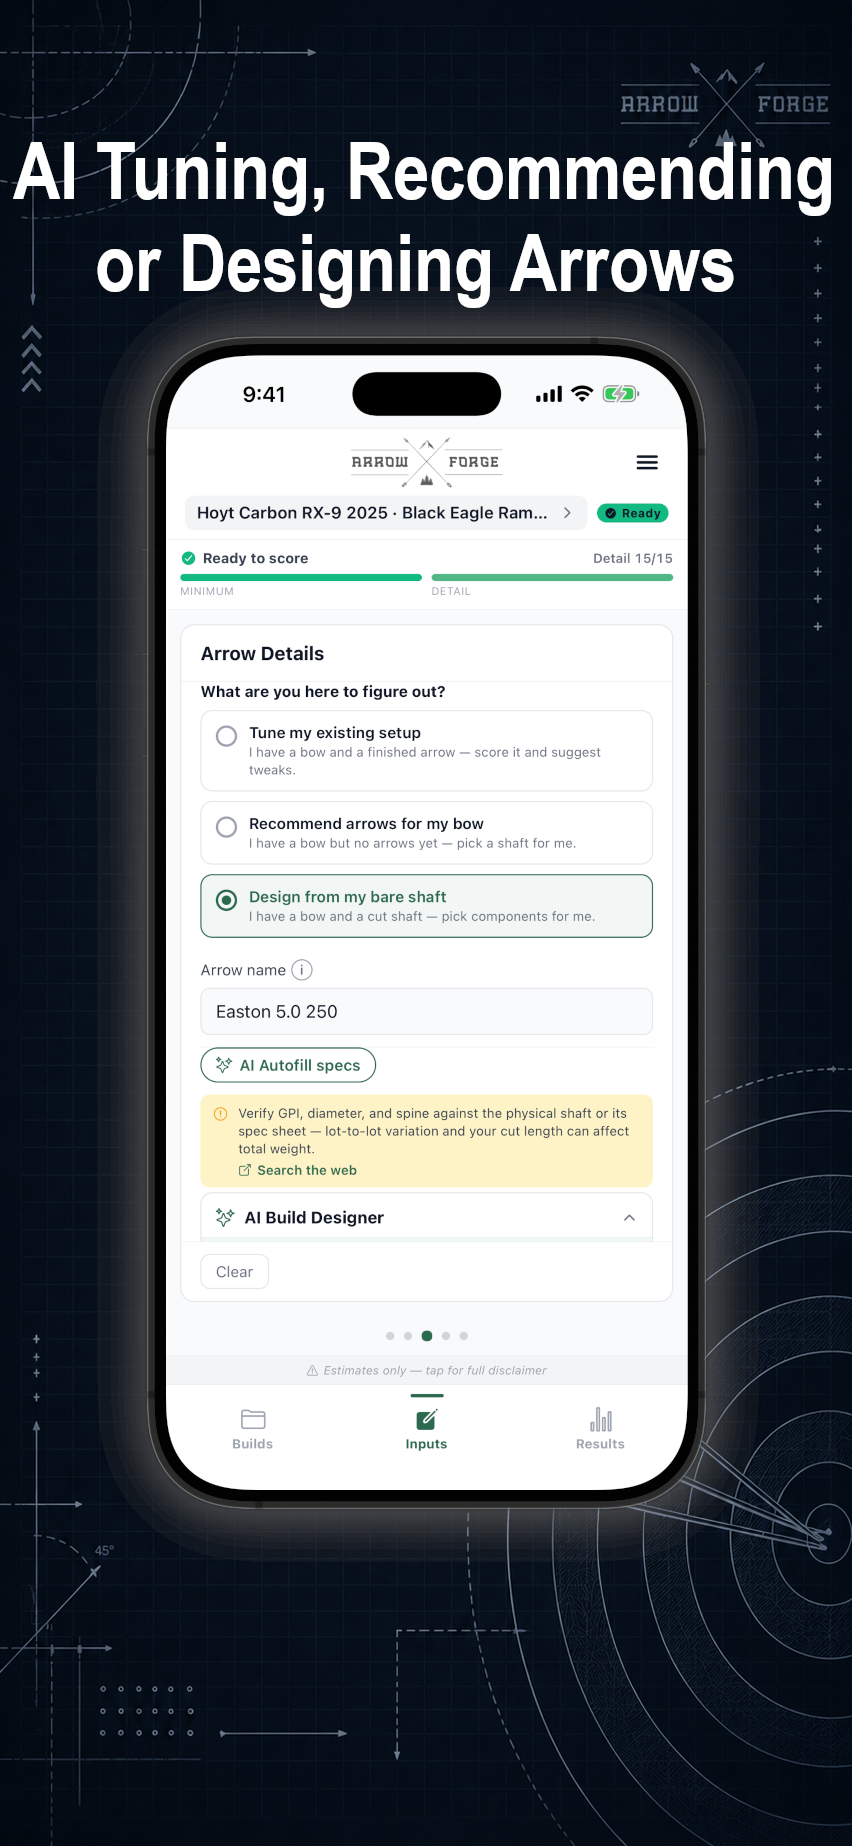
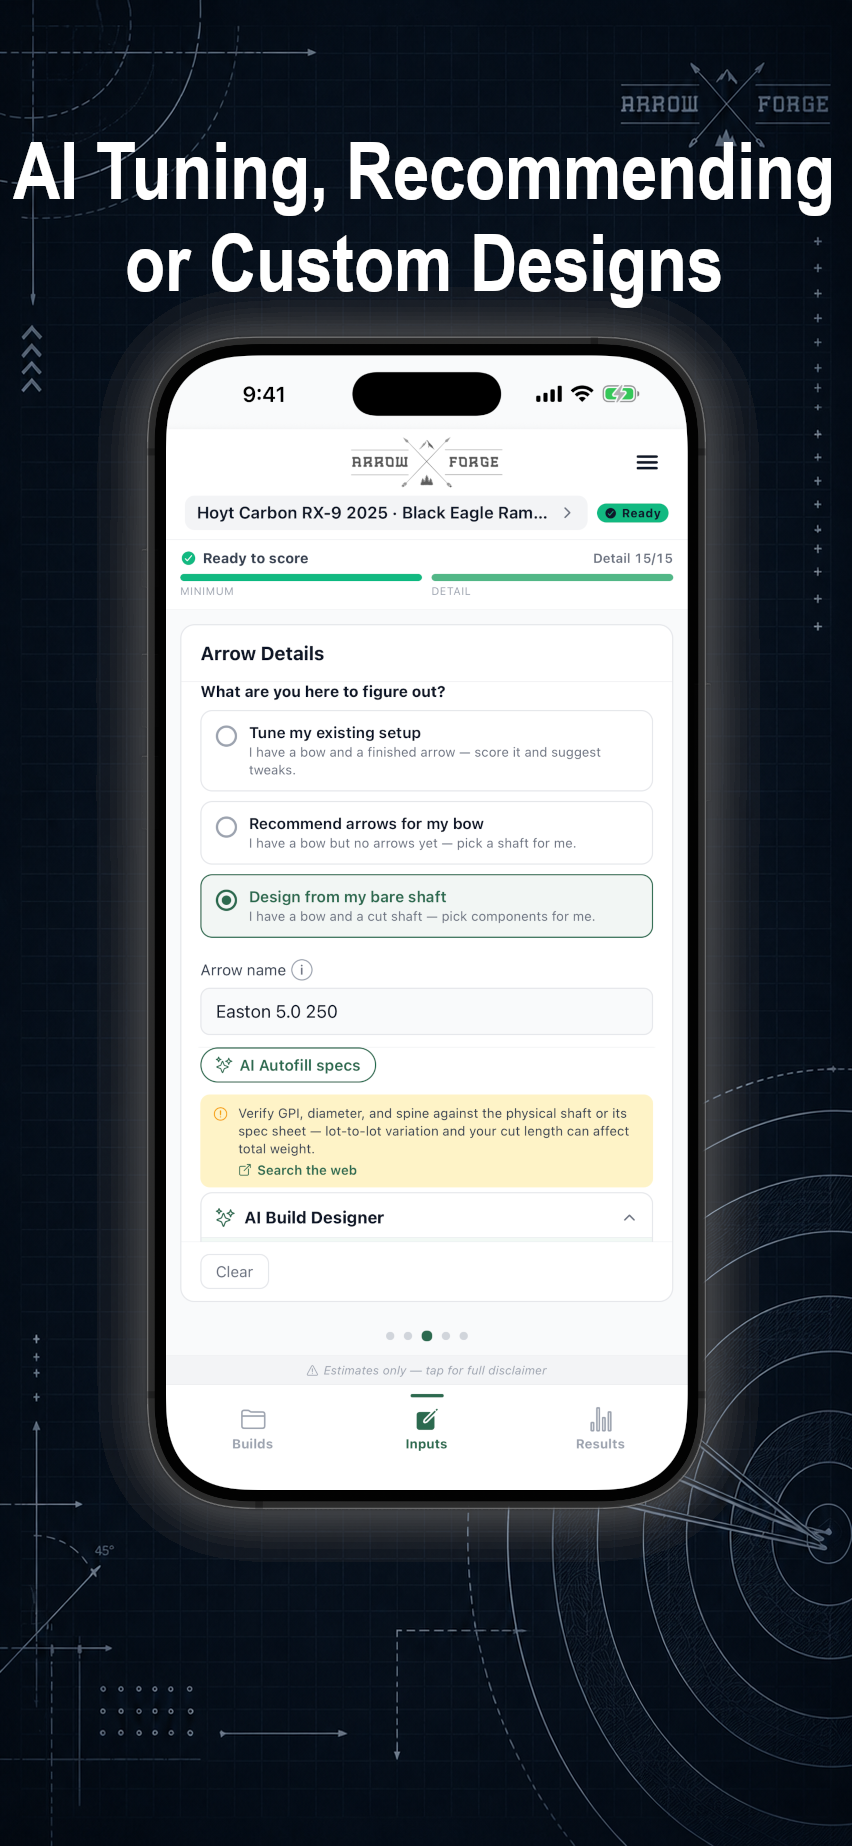
update images and how it works

Changed region(s): [[0.0915, 0.1235, 0.4883, 0.1853], [0.5188, 0.1235, 0.8545, 0.1853]]

diff --git a/how-it-works/index.html b/how-it-works/index.html
@@ -1,0 +1,296 @@
+<!DOCTYPE html>
+<html lang="en">
+<head>
+  <meta charset="UTF-8" />
+  <meta name="viewport" content="width=device-width, initial-scale=1.0" />
+  <title>How the Scoring Works — ArrowForge</title>
+  <meta name="description" content="ArrowForge scores every arrow build using a physics-based ballistics engine and a context-aware Build Match Score — explained in plain language." />
+  <link rel="preconnect" href="https://fonts.googleapis.com" />
+  <link href="https://fonts.googleapis.com/css2?family=Inter:wght@400;600;700;800&display=swap" rel="stylesheet" />
+  <style>
+    *, *::before, *::after { box-sizing: border-box; margin: 0; padding: 0; }
+    :root {
+      --brand:        #2D6A4F;
+      --brand-light:  #52B788;
+      --bg:           #F9FAFB;
+      --surface:      #FFFFFF;
+      --text:         #111827;
+      --muted:        #6B7280;
+      --border:       #E5E7EB;
+      --accent-bg:    #F0FDF4;
+      --accent-border:#BBF7D0;
+    }
+    body {
+      font-family: 'Inter', system-ui, sans-serif;
+      background: var(--bg);
+      color: var(--text);
+      line-height: 1.7;
+    }
+    nav {
+      background: var(--surface);
+      border-bottom: 1px solid var(--border);
+      padding: 0 24px;
+      height: 60px;
+      display: flex;
+      align-items: center;
+      justify-content: space-between;
+    }
+    .nav-logo {
+      display: flex;
+      align-items: center;
+      gap: 10px;
+      text-decoration: none;
+    }
+    .nav-logo img {
+      height: 36px;
+      width: 36px;
+      display: block;
+      border-radius: 8px;
+    }
+    .nav-logo-text {
+      font-size: 18px;
+      font-weight: 800;
+      color: var(--text);
+      letter-spacing: -0.4px;
+    }
+    .nav-back {
+      font-size: 14px;
+      font-weight: 600;
+      color: var(--muted);
+      text-decoration: none;
+    }
+    .nav-back:hover { color: var(--brand); }
+    .hero {
+      background: var(--brand);
+      color: #fff;
+      padding: 56px 24px 48px;
+      text-align: center;
+    }
+    .hero h1 {
+      font-size: clamp(28px, 5vw, 44px);
+      font-weight: 800;
+      letter-spacing: -0.8px;
+      margin-bottom: 16px;
+    }
+    .hero p {
+      font-size: 18px;
+      opacity: 0.88;
+      max-width: 600px;
+      margin: 0 auto;
+      line-height: 1.6;
+    }
+    .container {
+      max-width: 760px;
+      margin: 0 auto;
+      padding: 48px 24px 80px;
+    }
+    h2 {
+      font-size: 22px;
+      font-weight: 800;
+      letter-spacing: -0.3px;
+      color: var(--brand);
+      margin: 48px 0 12px;
+      padding-bottom: 8px;
+      border-bottom: 2px solid var(--accent-border);
+    }
+    h3 {
+      font-size: 17px;
+      font-weight: 700;
+      color: var(--text);
+      margin: 28px 0 8px;
+    }
+    p { margin-bottom: 16px; }
+    ul {
+      padding-left: 20px;
+      margin-bottom: 16px;
+    }
+    li { margin-bottom: 6px; }
+    .callout {
+      background: var(--accent-bg);
+      border: 1px solid var(--accent-border);
+      border-radius: 10px;
+      padding: 18px 20px;
+      margin: 24px 0;
+      font-size: 15px;
+    }
+    .callout strong { color: var(--brand); }
+    .score-table {
+      width: 100%;
+      border-collapse: collapse;
+      margin: 20px 0 28px;
+      font-size: 14px;
+    }
+    .score-table th {
+      background: var(--accent-bg);
+      color: var(--brand);
+      font-weight: 700;
+      text-align: left;
+      padding: 10px 14px;
+      border: 1px solid var(--accent-border);
+    }
+    .score-table td {
+      padding: 9px 14px;
+      border: 1px solid var(--border);
+      vertical-align: top;
+    }
+    .score-table tr:nth-child(even) td { background: #FAFAFA; }
+    .band {
+      display: inline-block;
+      padding: 2px 8px;
+      border-radius: 4px;
+      font-size: 12px;
+      font-weight: 700;
+      letter-spacing: 0.3px;
+    }
+    .band-excellent { background: #D1FAE5; color: #065F46; }
+    .band-good      { background: #DBEAFE; color: #1E40AF; }
+    .band-fair      { background: #FEF3C7; color: #92400E; }
+    .band-low       { background: #FEE2E2; color: #991B1B; }
+    footer {
+      text-align: center;
+      padding: 32px 24px;
+      font-size: 13px;
+      color: var(--muted);
+      border-top: 1px solid var(--border);
+    }
+    footer a { color: var(--brand); text-decoration: none; }
+    footer a:hover { text-decoration: underline; }
+  </style>
+</head>
+<body>
+
+<nav>
+  <a class="nav-logo" href="/">
+    <img src="/icon.png" alt="ArrowForge" />
+    <span class="nav-logo-text">ArrowForge</span>
+  </a>
+  <a class="nav-back" href="/">← Back</a>
+</nav>
+
+<div class="hero">
+  <h1>How the Scoring Works</h1>
+  <p>ArrowForge uses a physics-based ballistics engine and a context-aware Build Match Score to evaluate every arrow build — no black boxes, no guesswork.</p>
+</div>
+
+<div class="container">
+
+  <h2>The core idea</h2>
+
+  <p>Most archery calculators show you a number — spine chart deflection, FOC percentage, kinetic energy — and leave you to interpret it. ArrowForge instead asks a harder question: <strong>how well does this specific build match this specific archer, bow, and goal?</strong></p>
+
+  <p>A 400-grain arrow flying at 310 fps is excellent for a 3D competitor shooting 50 yards in the open. It is a questionable choice for a bowhunter picking their way through timber at 25 yards after a 600-pound black bear. Same arrow, same bow, different score — because context changes everything.</p>
+
+  <p>The Build Match Score translates that context into a single 0–100 number with two clear sub-categories: <strong>Forgiveness</strong> and <strong>Tuning Match</strong>.</p>
+
+
+  <h2>Build Match Score — two categories, one number</h2>
+
+  <p>The overall score is a weighted average of Forgiveness and Tuning Match. The weights shift based on what the archer is working toward:</p>
+
+  <table class="score-table">
+    <thead>
+      <tr><th>Archer application</th><th>Forgiveness weight</th><th>Tuning weight</th></tr>
+    </thead>
+    <tbody>
+      <tr><td>Bowhunting</td><td>60%</td><td>40%</td></tr>
+      <tr><td>Competition / Target</td><td>35%</td><td>65%</td></tr>
+      <tr><td>Training / Other</td><td>50%</td><td>50%</td></tr>
+    </tbody>
+  </table>
+
+  <p>A hunter's score leans on forgiveness because a hunting shot is rarely from a bench — it involves adrenaline, an awkward angle, a hard hold at full draw. A target shooter's score leans on tuning because at 50 meters, a mismatched spine or poor FOC will show up in every arrow.</p>
+
+  <table class="score-table">
+    <thead>
+      <tr><th>Score</th><th>Band</th><th>What it means</th></tr>
+    </thead>
+    <tbody>
+      <tr><td>85–100</td><td><span class="band band-excellent">Excellent</span></td><td>Build is well-matched; small gains possible but this setup is working</td></tr>
+      <tr><td>70–84</td><td><span class="band band-good">Good</span></td><td>Solid build with room to improve one or two factors</td></tr>
+      <tr><td>50–69</td><td><span class="band band-fair">Fair</span></td><td>Noticeable gaps — tuning changes would help meaningfully</td></tr>
+      <tr><td>0–49</td><td><span class="band band-low">Low</span></td><td>Build is mismatched for stated goal or bow; review recommended</td></tr>
+    </tbody>
+  </table>
+
+
+  <h2>Forgiveness — does this build work when it counts?</h2>
+
+  <p>Forgiveness measures how much margin for error is built into the setup. A forgiving build groups well even on a slightly off shot. An unforgiving build demands perfection every time.</p>
+
+  <p>Six factors contribute to the Forgiveness score. Their weights shift based on the archer's <strong>farthest practice distance</strong> and <strong>target species</strong> — because what matters at 20 yards in the timber is different from what matters at 70 yards in the open West.</p>
+
+  <div class="callout">
+    <strong>Why distance changes the weights:</strong> At close range, shot-angle forgiveness dominates — the arrow has less time to correct, and the encounter geometry is more variable. At long range, aerodynamic stability and flat flight become the limiting factors. ArrowForge shifts the formula automatically so the score reflects the archer's actual use case.
+  </div>
+
+  <h3>Grains per pound (GPP)</h3>
+  <p>GPP is total finished arrow weight divided by draw weight. It is the single best predictor of how the arrow will behave at the shot: too light and the bow works against itself (excess vibration, poor efficiency, hard on equipment); too heavy and the arrow loses speed and trajectory. Compound optimal range is 5.5–8.0 GPP; traditional bows run 7.5–9.5 GPP. GPP carries the most weight in short-range and big-game scoring where penetration and controlled energy delivery matter most.</p>
+
+  <h3>Group stability</h3>
+  <p>A composite check across three independent factors: arrow speed (does the build generate enough velocity to stabilize the shaft?), FOC (is the center of mass forward enough to keep the arrow nose-forward through the shot?), and GPI — grains per inch — (is the shaft heavy enough per unit length to resist wind deflection without being too stiff to tune?). All three must be in range for full marks; partial credit is awarded proportionally.</p>
+
+  <h3>Hold forgiveness</h3>
+  <p>For compounds: let-off percentage. A 90% let-off holds 10% of peak weight at full draw — a major factor for a bowhunter waiting for a shot opportunity. For recurves and traditional bows: bow length. A longer bow draws a shorter string angle at the fingers, reducing torque and improving consistency.</p>
+
+  <h3>Brace height</h3>
+  <p>The distance from the grip throat to the bowstring at rest. Shorter brace heights increase the power stroke and arrow speed — but the arrow stays on the string longer, meaning any hand movement during the shot is transmitted to the arrow. Most modern compound bowhunters favor 6.5 inches or more. Below 6.0 inches, the margin for error shrinks substantially.</p>
+
+  <h3>Flight profile</h3>
+  <p>Shaft diameter. Smaller-diameter arrows (4mm / 0.204") punch through air more cleanly and drift less in wind — meaningful at distance. At close range, this factor carries almost no weight in the score. At 60+ yards, it becomes significant. The scoring penalizes large-diameter shafts at long range because physics does.</p>
+
+  <h3>Arrow weight (dangerous game)</h3>
+  <p>For dangerous-game pursuits — brown bear, bison, cape buffalo — total finished arrow weight becomes a standalone factor. Heavy arrows carry momentum that light-and-fast setups cannot match at bone. This factor is inactive for most hunting and all target applications; it only enters the score when the target species demands it.</p>
+
+
+  <h2>Tuning Match — is the arrow actually matched to the bow?</h2>
+
+  <p>Tuning Match evaluates whether the arrow's dynamic spine, weight, and (when known) measured speed are correctly dialed for the specific bow.</p>
+
+  <h3>Spine consensus</h3>
+  <p>ArrowForge computes effective draw weight — the load the bow actually exerts on the shaft given draw length, point weight, and total arrow weight — and then checks whether the selected shaft's rated spine sits within the expected range. This is not a simple chart lookup: effective draw weight shifts 2.5 lbs per inch of draw length away from 28" and 0.15 lbs per grain of point weight away from 100 grains. Spine carries 50–62% of the Tuning Match score depending on whether a measured arrow speed is available.</p>
+
+  <h3>GPP as a tuning signal</h3>
+  <p>GPP appears in both Forgiveness and Tuning Match because it reflects two different things. In Forgiveness, it is about energy delivery and equipment stress. In Tuning Match, it is about whether the arrow's mass is in the range where the bow can efficiently transfer energy without oscillation. An arrow that is too light for the bow cycles poorly out of the shot; too heavy and it loses the energy advantage of the bow's draw weight.</p>
+
+  <h3>FPS efficiency (when a chronograph is available)</h3>
+  <p>If the archer enters a measured arrow speed, ArrowForge compares it to the expected velocity for that bow, draw length, and arrow weight. A well-tuned bow running within 25 fps of predicted velocity scores full marks. Larger gaps suggest a timing, cam, or limb issue — or that the entered specs don't match what's actually on the bow. This factor contributes 20% of Tuning Match when present.</p>
+
+
+  <h2>Ballistics — the physics underneath the score</h2>
+
+  <p>The Build Match Score is built on top of a deterministic ballistics engine that runs the same physics equations used in external ballistics, adapted for arrows.</p>
+
+  <h3>Kinetic energy and momentum</h3>
+  <p>KE (in foot-pounds) and momentum (slug·ft/s) are calculated at the muzzle and at the target using the arrow's measured or estimated velocity and weight. Momentum is the better predictor of penetration on large game — it measures how much the arrow resists being stopped — while KE is a better indicator of how much energy is available at impact. ArrowForge reports both and evaluates them against established thresholds for small game, deer, elk, and dangerous game.</p>
+
+  <h3>Velocity retention</h3>
+  <p>Arrows shed speed rapidly compared to bullets — a typical hunting arrow loses 15–25% of its velocity by 40 yards. ArrowForge models this with an exponential decay that accounts for arrow weight: heavier arrows carry their velocity better than light ones despite starting slower. The formula: <em>impact velocity = launch velocity × e^(−0.532 × range / weight)</em>. This constant was calibrated against published arrow flight data.</p>
+
+  <h3>Trajectory and flatness</h3>
+  <p>Drop is calculated using a time-of-flight model. ArrowForge measures the additional drop from 20 yards to 60 yards — the "extra" drop relative to the near pin — because this is what drives sight tape spacing and hold-over decisions in the field. Flatter trajectories reduce the cost of a range estimation error, which matters most at distance and least at close range.</p>
+
+  <h3>Air density correction</h3>
+  <p>Elevation changes air density, and air density changes how fast an arrow slows down and drops. ArrowForge corrects for elevation using a standard barometric formula accurate to within 1% up to 16,000 feet — relevant for bowhunters in the Rockies or high-desert hunts where a sea-level sight tape will print several inches low at distance.</p>
+
+
+  <h2>What ArrowForge does not do</h2>
+
+  <p>The score is a tool, not a verdict. ArrowForge will tell you that your brace height is below the preferred band — it will not tell you to change your bow. It will flag an underspined setup — it will not prescribe a specific shaft by brand. The recommendations point toward levers the archer controls: point weight, cut length, insert weight, draw length confirmation. Equipment decisions belong to the archer and their bow technician.</p>
+
+  <div class="callout">
+    <strong>A note on AI recommendations:</strong> ArrowForge Pro layers an AI coaching layer on top of the physics engine. The AI explains what the numbers mean in plain language, suggests which lever to pull first, and can design a build from scratch. The physics engine always runs first — the AI interprets it. Neither replaces a qualified bow technician for final setup and safety confirmation.
+  </div>
+
+</div>
+
+<footer>
+  <p>
+    <a href="/">ArrowForge</a> &nbsp;·&nbsp;
+    <a href="/privacy/">Privacy Policy</a> &nbsp;·&nbsp;
+    <a href="/terms/">Terms of Service</a>
+  </p>
+  <p style="margin-top:8px;">© 2026 Frontier Forge LLC. All rights reserved.</p>
+</footer>
+
+</body>
+</html>
